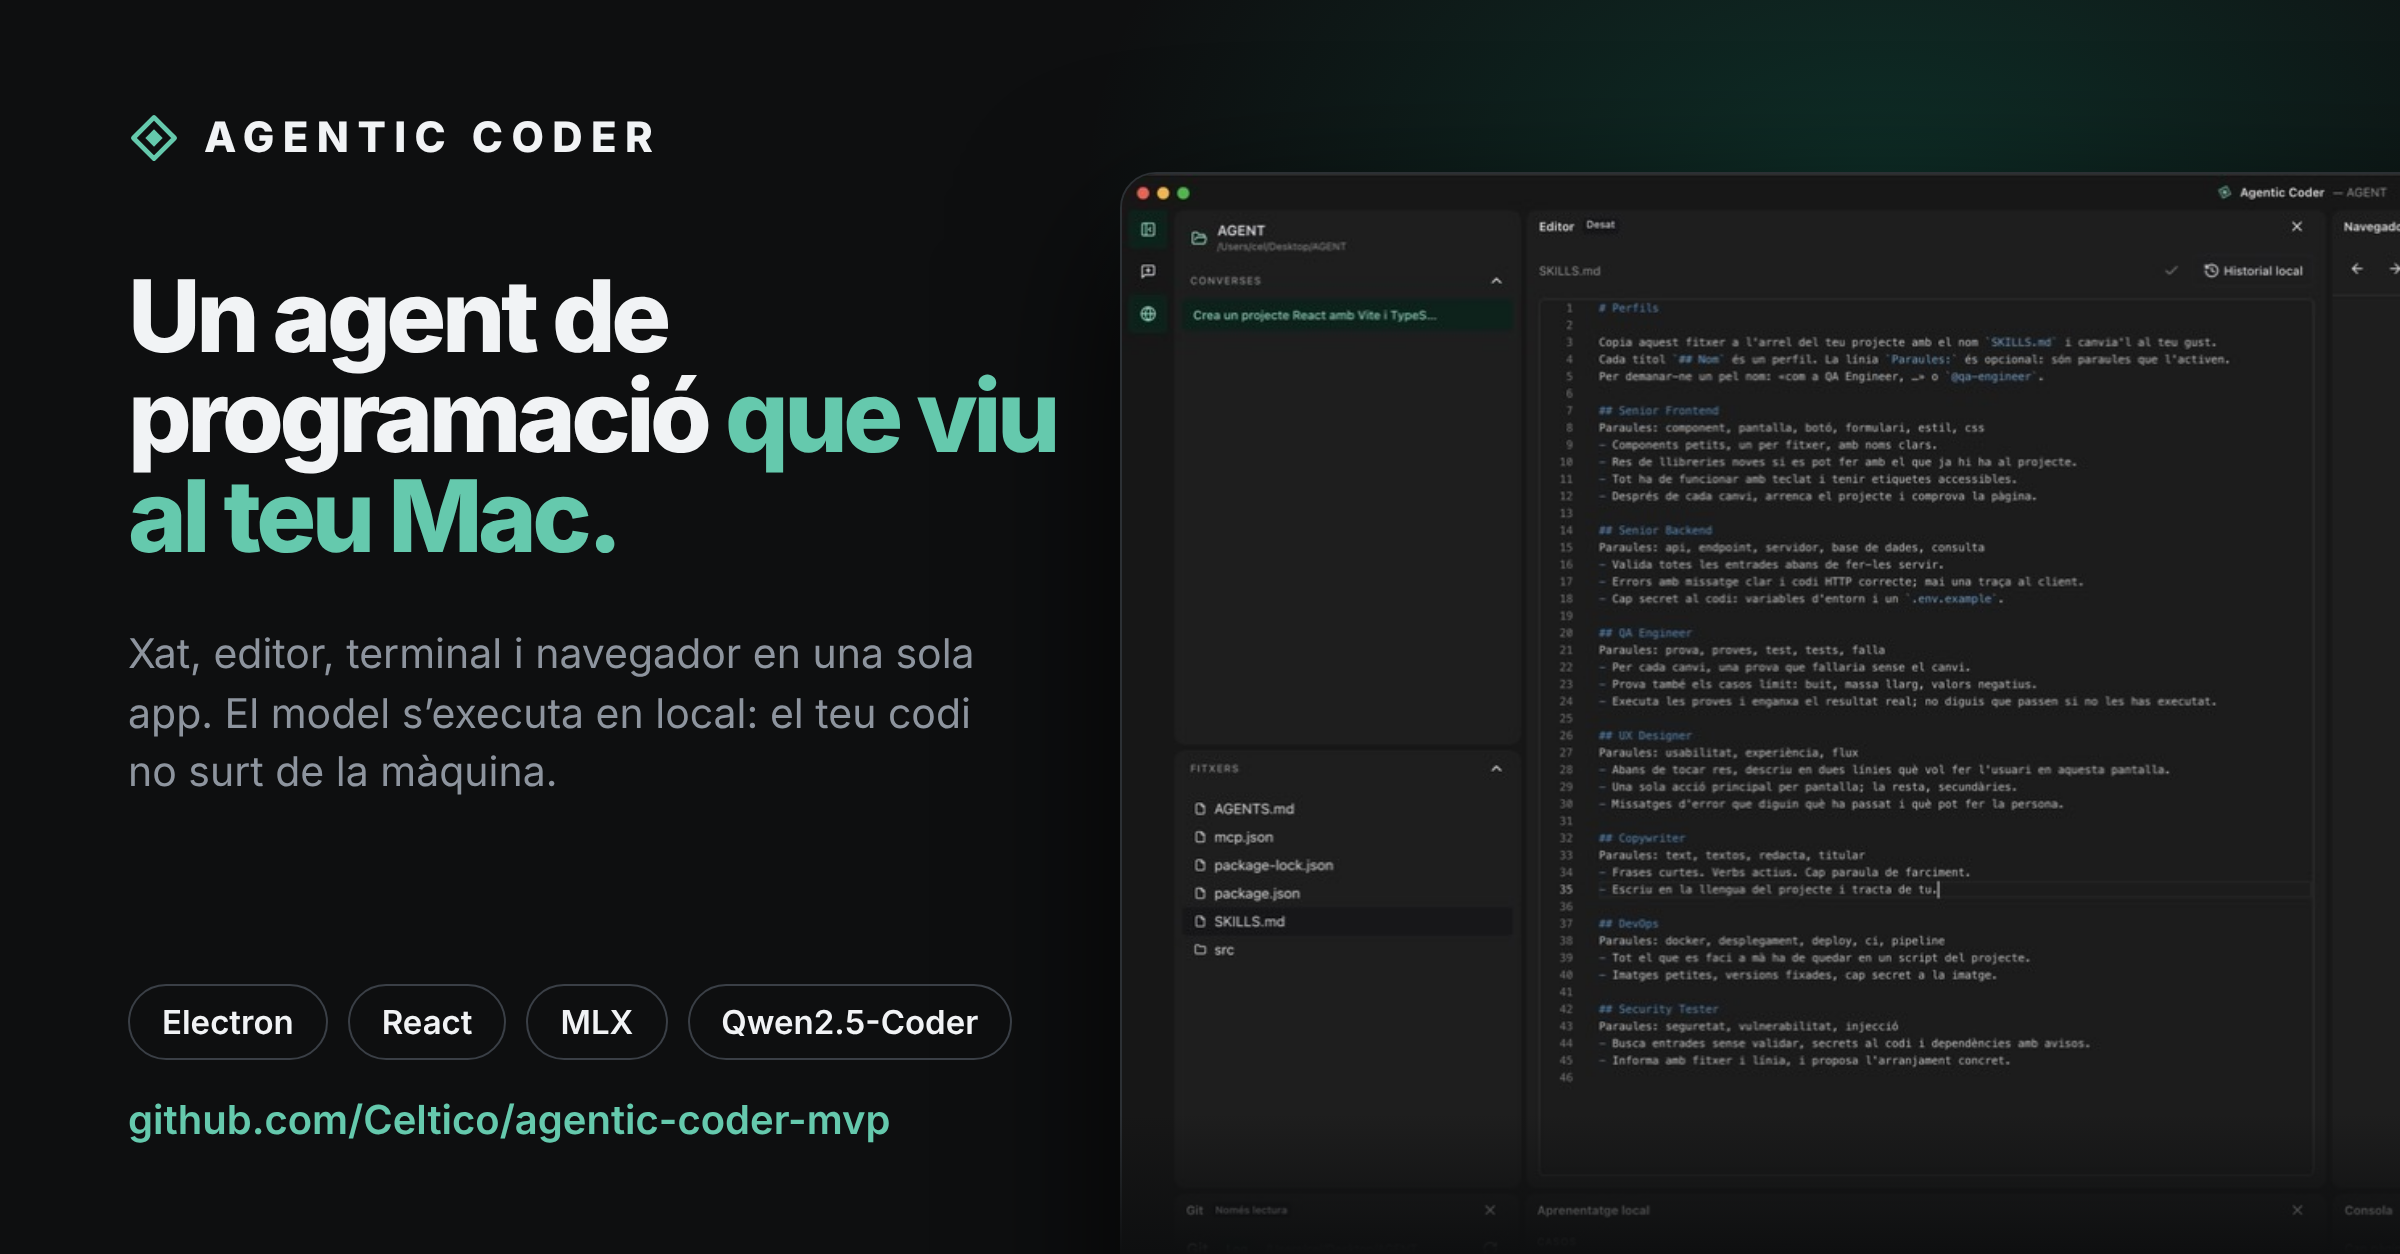
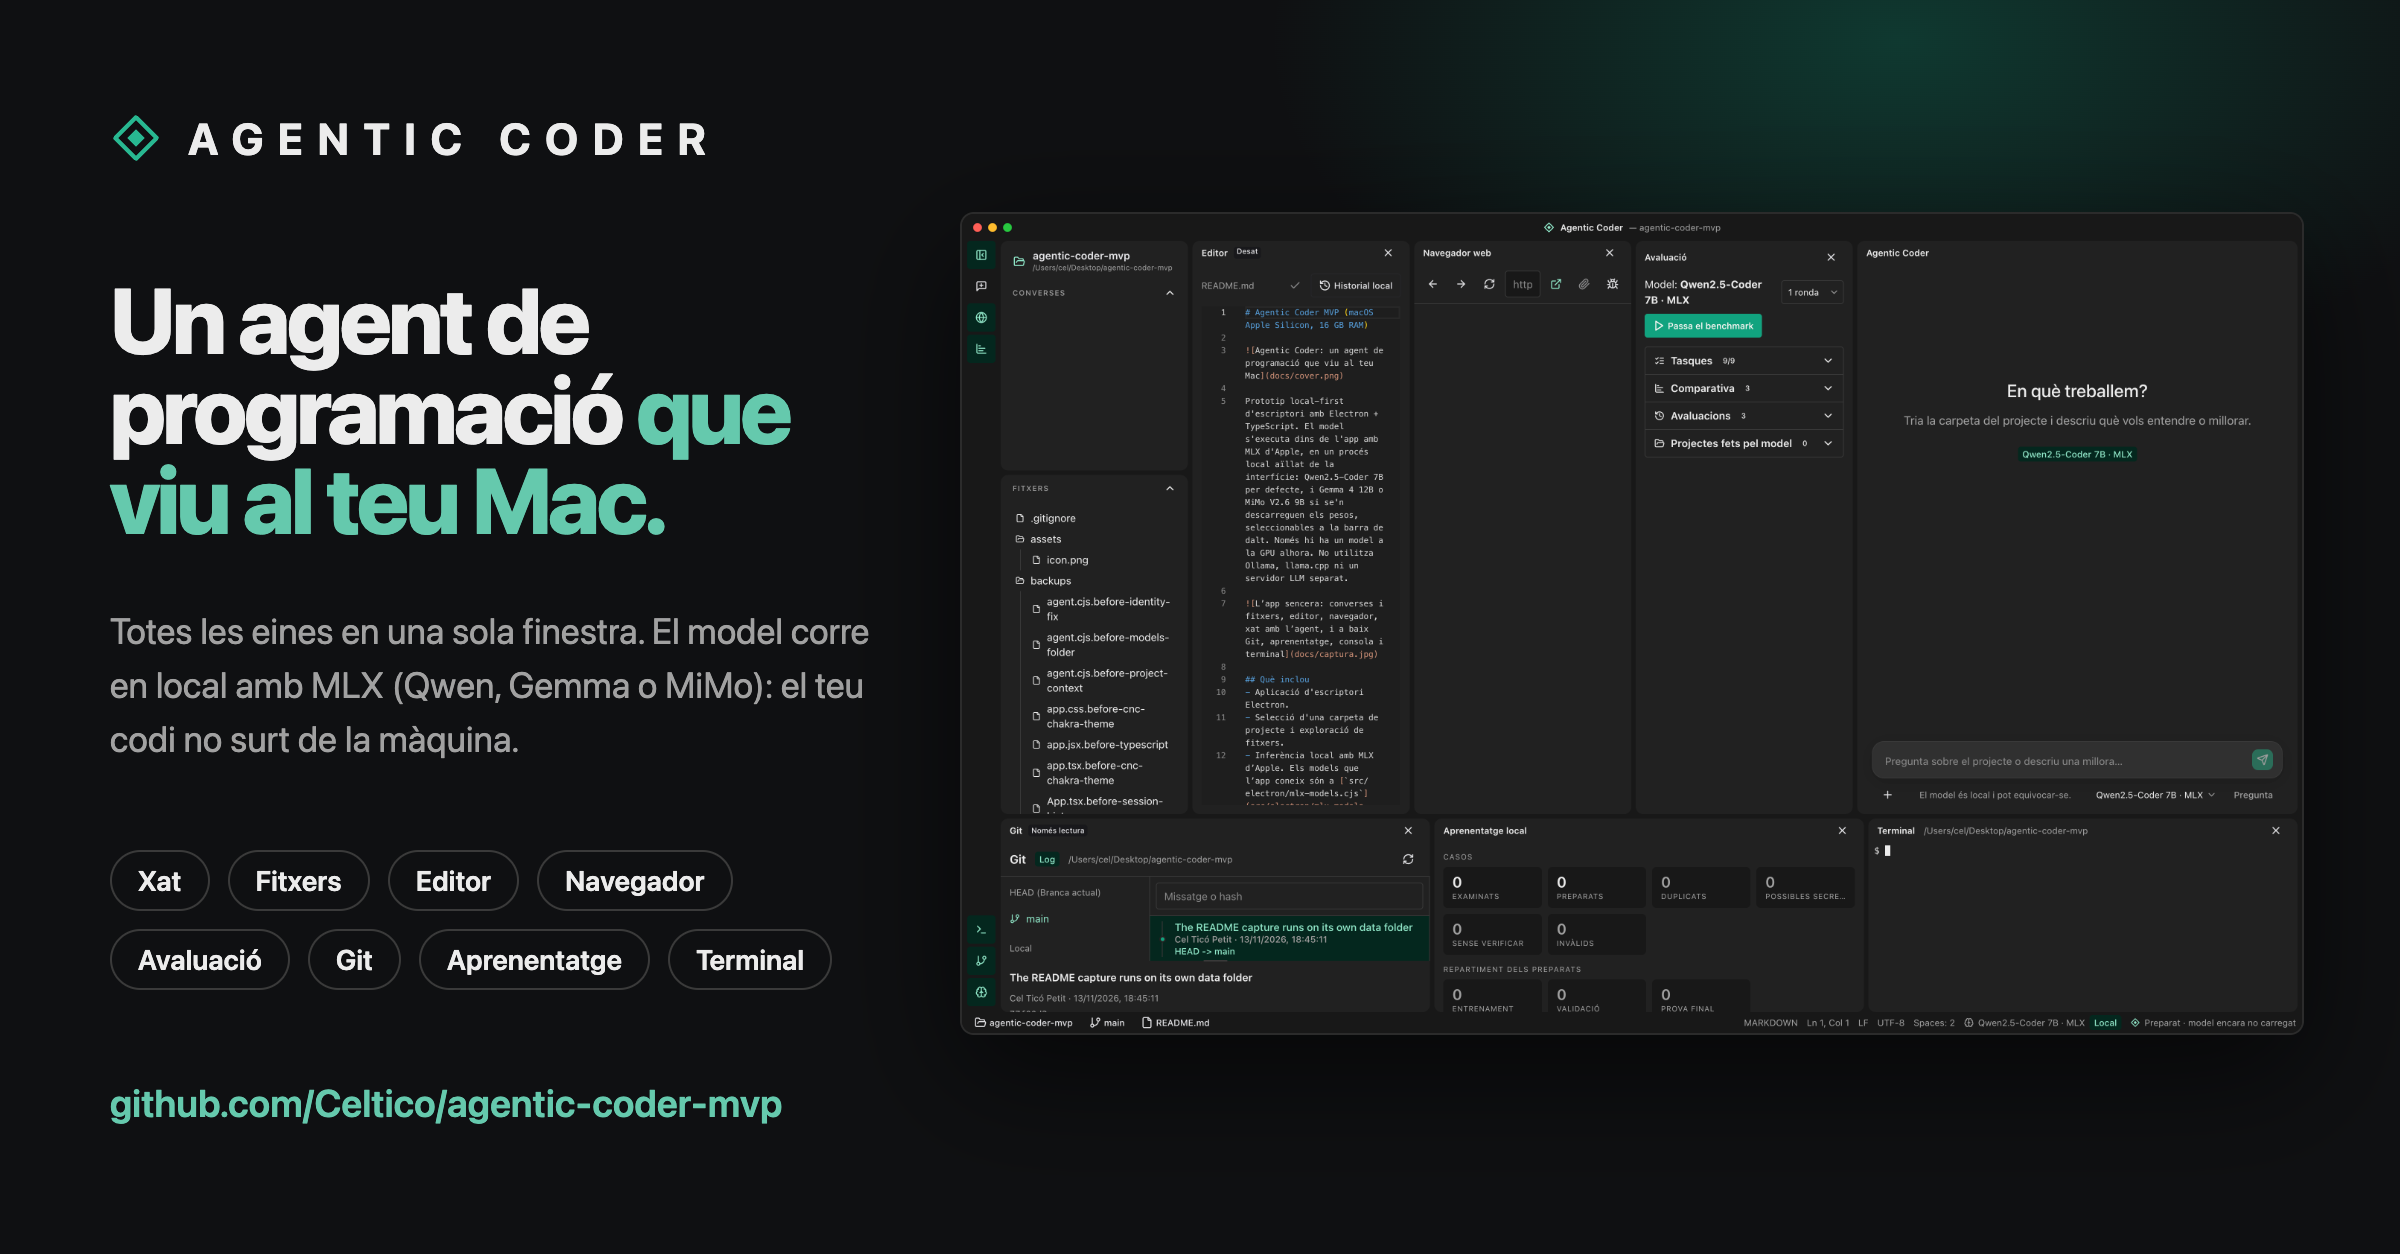
The GitHub cover shows the app's windows
The cover is now made from docs/cover/cover.html and a capture of the app
(docs/cover/app.png) with scripts/render-cover.cjs: the whole window, like
a macOS one, and its windows as the features.

diff --git a/docs/cover/cover.html b/docs/cover/cover.html
@@ -1,0 +1,37 @@
+<!doctype html>
+<html lang="ca">
+<head>
+<meta charset="utf-8">
+<title>Agentic Coder · portada</title>
+<!-- The GitHub cover (docs/cover.png), 2400 × 1254. Rendered by scripts/render-cover.cjs. -->
+<style>
+  html, body { margin: 0; width: 2400px; height: 1254px; overflow: hidden; background: #0f1012; font-family: -apple-system, BlinkMacSystemFont, "SF Pro Display", "Segoe UI", sans-serif; }
+  .glow { position: absolute; inset: 0; background: radial-gradient(900px 520px at 1900px 40px, rgba(16, 163, 127, .28), transparent 70%); }
+  .text { position: absolute; left: 110px; top: 112px; width: 800px; color: #ececec; }
+  .brand { display: flex; align-items: center; gap: 26px; font-size: 44px; font-weight: 700; letter-spacing: .32em; }
+  .brand svg { width: 52px; height: 52px; color: #28b891; }
+  h1 { margin: 110px 0 0; font-size: 92px; line-height: .98; letter-spacing: -.035em; font-weight: 800; }
+  h1 em { font-style: normal; color: #65c9ad; }
+  p { margin: 60px 0 0; font-size: 36px; line-height: 1.5; color: #a1a1a1; max-width: 780px; }
+  .chips { position: absolute; left: 110px; top: 850px; width: 800px; display: flex; flex-wrap: wrap; gap: 18px; }
+  .chip { padding: 12px 26px; border: 2px solid #3a3a3a; border-radius: 40px; color: #ececec; font-size: 28px; font-weight: 600; }
+  .url { position: absolute; left: 110px; top: 1080px; font-size: 38px; font-weight: 600; color: #65c9ad; }
+  .shot { position: absolute; left: 960px; top: 212px; width: 1340px; border-radius: 14px; overflow: hidden; border: 2px solid #2b2b2b; box-shadow: 0 40px 120px rgba(0, 0, 0, .6); background: #171717; }
+  /* The macOS traffic lights, where the app's own hidden-inset title bar has them (20/40/60 pt, 12 pt round). */
+  .shot .lights { position: absolute; left: 0; top: 0; }
+  .shot .lights i { position: absolute; width: 9px; height: 9px; margin: -4.5px 0 0 -4.5px; border-radius: 50%; top: 13.4px; box-shadow: inset 0 0 0 .5px rgba(0, 0, 0, .25); }
+  .shot img { display: block; width: 100%; }
+</style>
+</head>
+<body>
+  <div class="glow"></div>
+  <div class="text">
+    <div class="brand"><svg viewBox="0 0 24 24" fill="none"><path d="M12 2.5 21.5 12 12 21.5 2.5 12Z" stroke="currentColor" stroke-width="2" stroke-linejoin="round"/><path d="M12 8 16 12 12 16 8 12Z" fill="currentColor"/></svg>AGENTIC CODER</div>
+    <h1>Un agent de programació <em>que viu al teu Mac.</em></h1>
+    <p>Totes les eines en una sola finestra. El model corre en local amb MLX (Qwen, Gemma o MiMo): el teu codi no surt de la màquina.</p>
+  </div>
+  <div class="chips"><span class="chip">Xat</span><span class="chip">Fitxers</span><span class="chip">Editor</span><span class="chip">Navegador</span><span class="chip">Avaluació</span><span class="chip">Git</span><span class="chip">Aprenentatge</span><span class="chip">Terminal</span></div>
+  <div class="url">github.com/Celtico/agentic-coder-mvp</div>
+  <div class="shot"><img src="app.png" alt=""><div class="lights"><i style="left:15px;background:#ff5f57"></i><i style="left:30px;background:#febc2e"></i><i style="left:45px;background:#28c840"></i></div></div>
+</body>
+</html>
